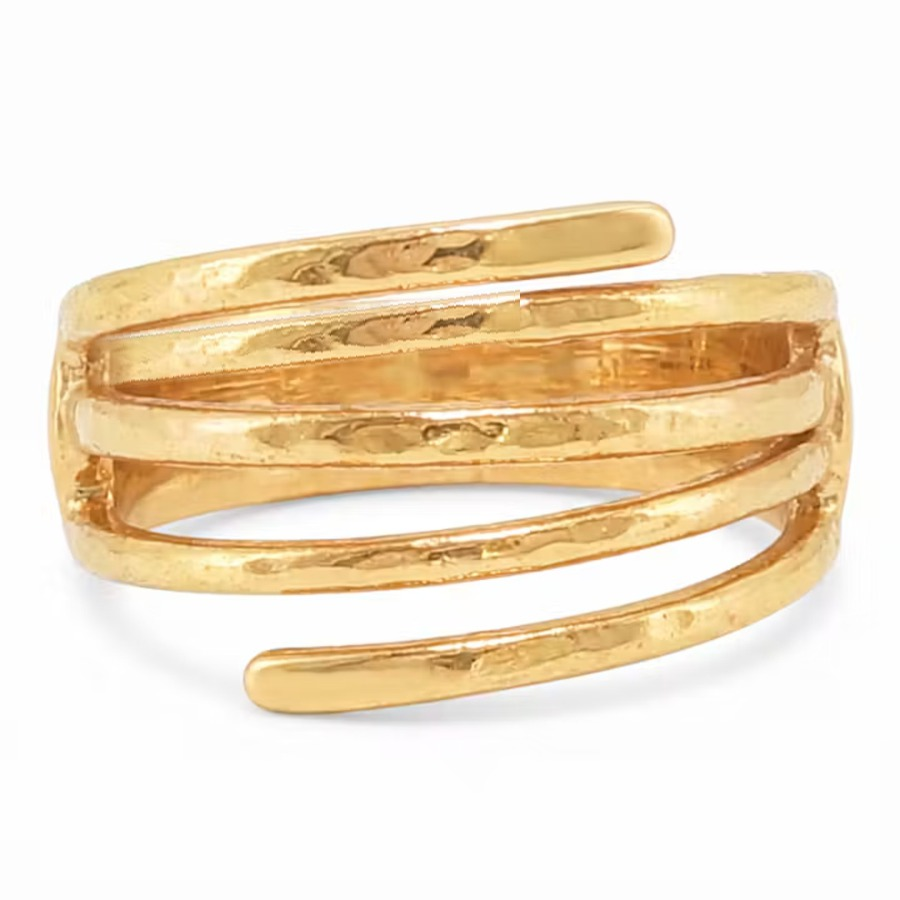
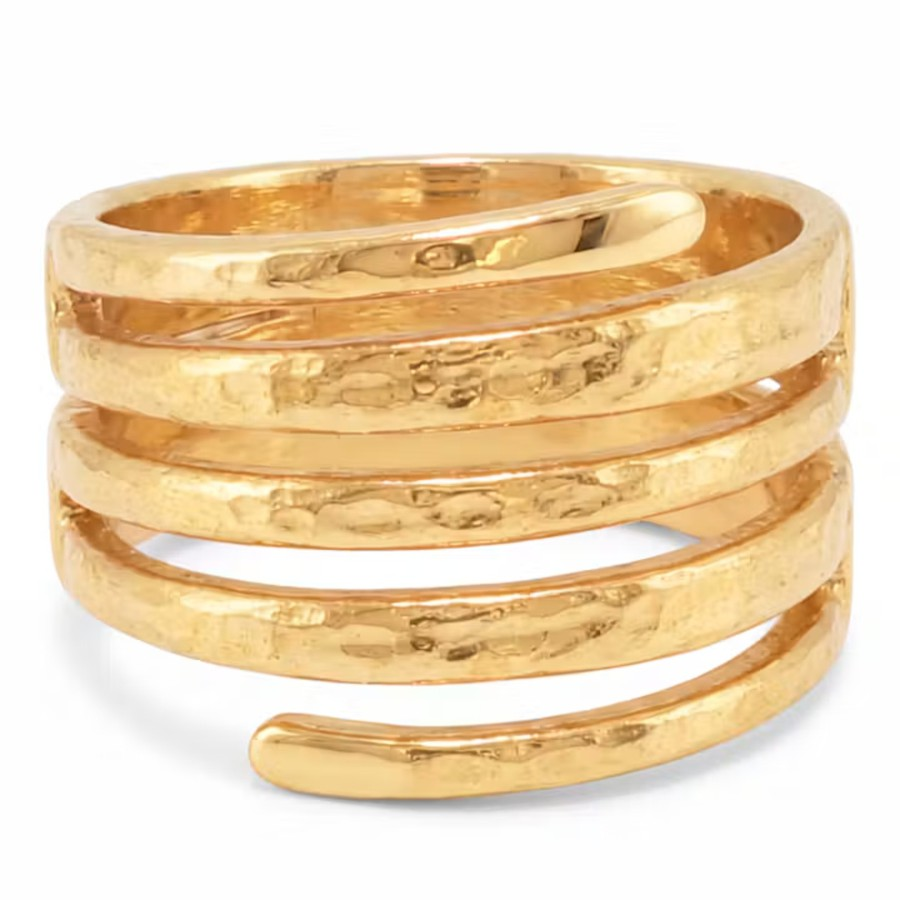
3- and 4-wrap bases are whole Artlist rings grown from the 3-wire ring (no cuts)

diff --git a/index.html b/index.html
@@ -1093,8 +1093,8 @@ const PLAIN = {1:'img/studio/plain-1.jpg', 2:'img/studio/plain-2.jpg', 3:'img/st
 const PLAIN_STONES = {
   1:{wraps:[{x:560,y:450,r:40,m:10}], bottom:{x:412,y:574,w:330,h:190,m:3,shape:'pear',turn:true}},
   2:{wraps:[{x:378,y:415,r:40,m:0},{x:190,y:504,r:40,m:0}], bottom:{x:412,y:648,w:330,h:190,m:3,shape:'pear',turn:true}},
-  3:{wraps:[{x:378,y:263,r:40,m:0},{x:190,y:354,r:40,m:0},{x:600,y:440,r:40,m:6}], bottom:{x:412,y:571,w:330,h:190,m:3,shape:'pear',turn:true}},
-  4:{wraps:[{x:378,y:263,r:40,m:0},{x:190,y:354,r:40,m:0},{x:535,y:450,r:40,m:6},{x:205,y:565,r:40,m:7}], bottom:{x:412,y:672,w:330,h:190,m:3,shape:'pear',turn:true}},
+  3:{wraps:[{x:378,y:325,r:40,m:0},{x:190,y:471,r:40,m:0},{x:625,y:465,r:40,m:6}], bottom:{x:412,y:649,w:330,h:190,m:3,shape:'pear',turn:true}},
+  4:{wraps:[{x:378,y:231,r:40,m:0},{x:190,y:370,r:40,m:0},{x:535,y:467,r:40,m:6},{x:283,y:592,r:40,m:7}], bottom:{x:412,y:762,w:330,h:190,m:3,shape:'pear',turn:true}},
   5:{wraps:[{x:378,y:161,r:40,m:0},{x:190,y:290,r:40,m:0},{x:535,y:322,r:40,m:6},{x:283,y:408,r:40,m:7},{x:700,y:440,r:40,m:10}], bottom:{x:412,y:569,w:330,h:190,m:3,shape:'pear',turn:true}},
 };   // n -> plain ring photo, once it exists
 const SRC = {src:'img/studio/gold-5.jpg', n:5, stone:{x:535, y:355, r:40, m:6}};   // her ruby, with its prongs
